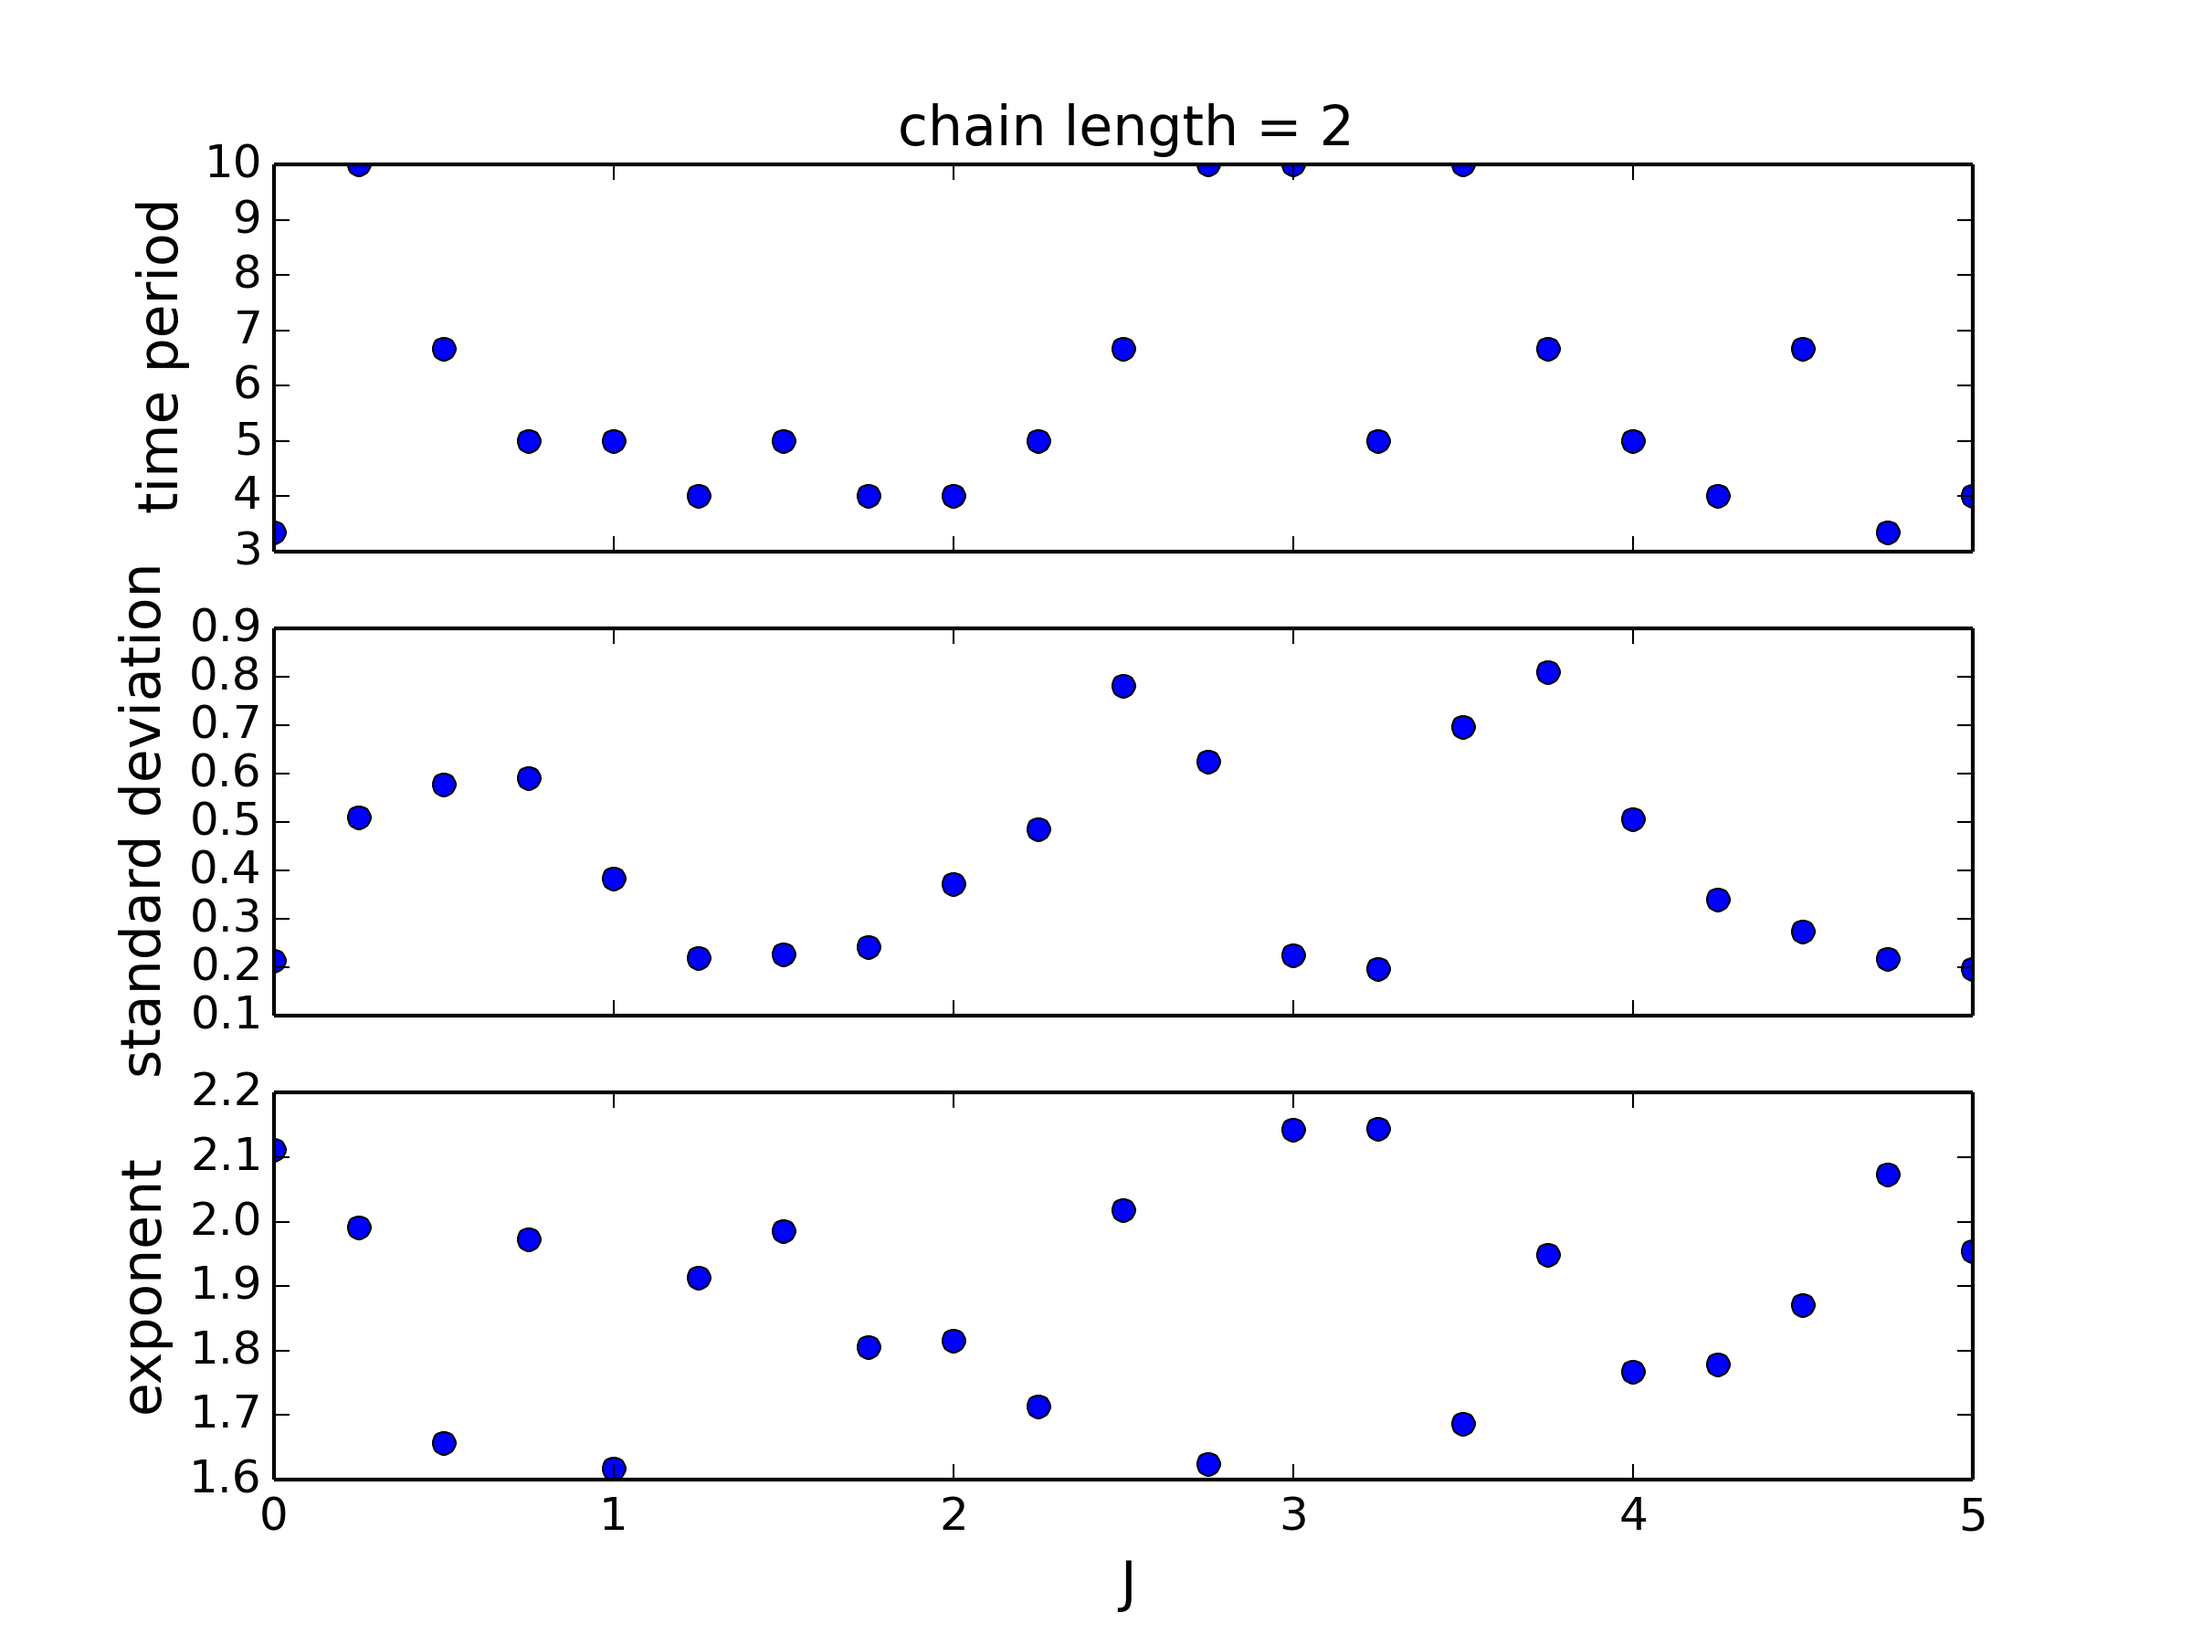
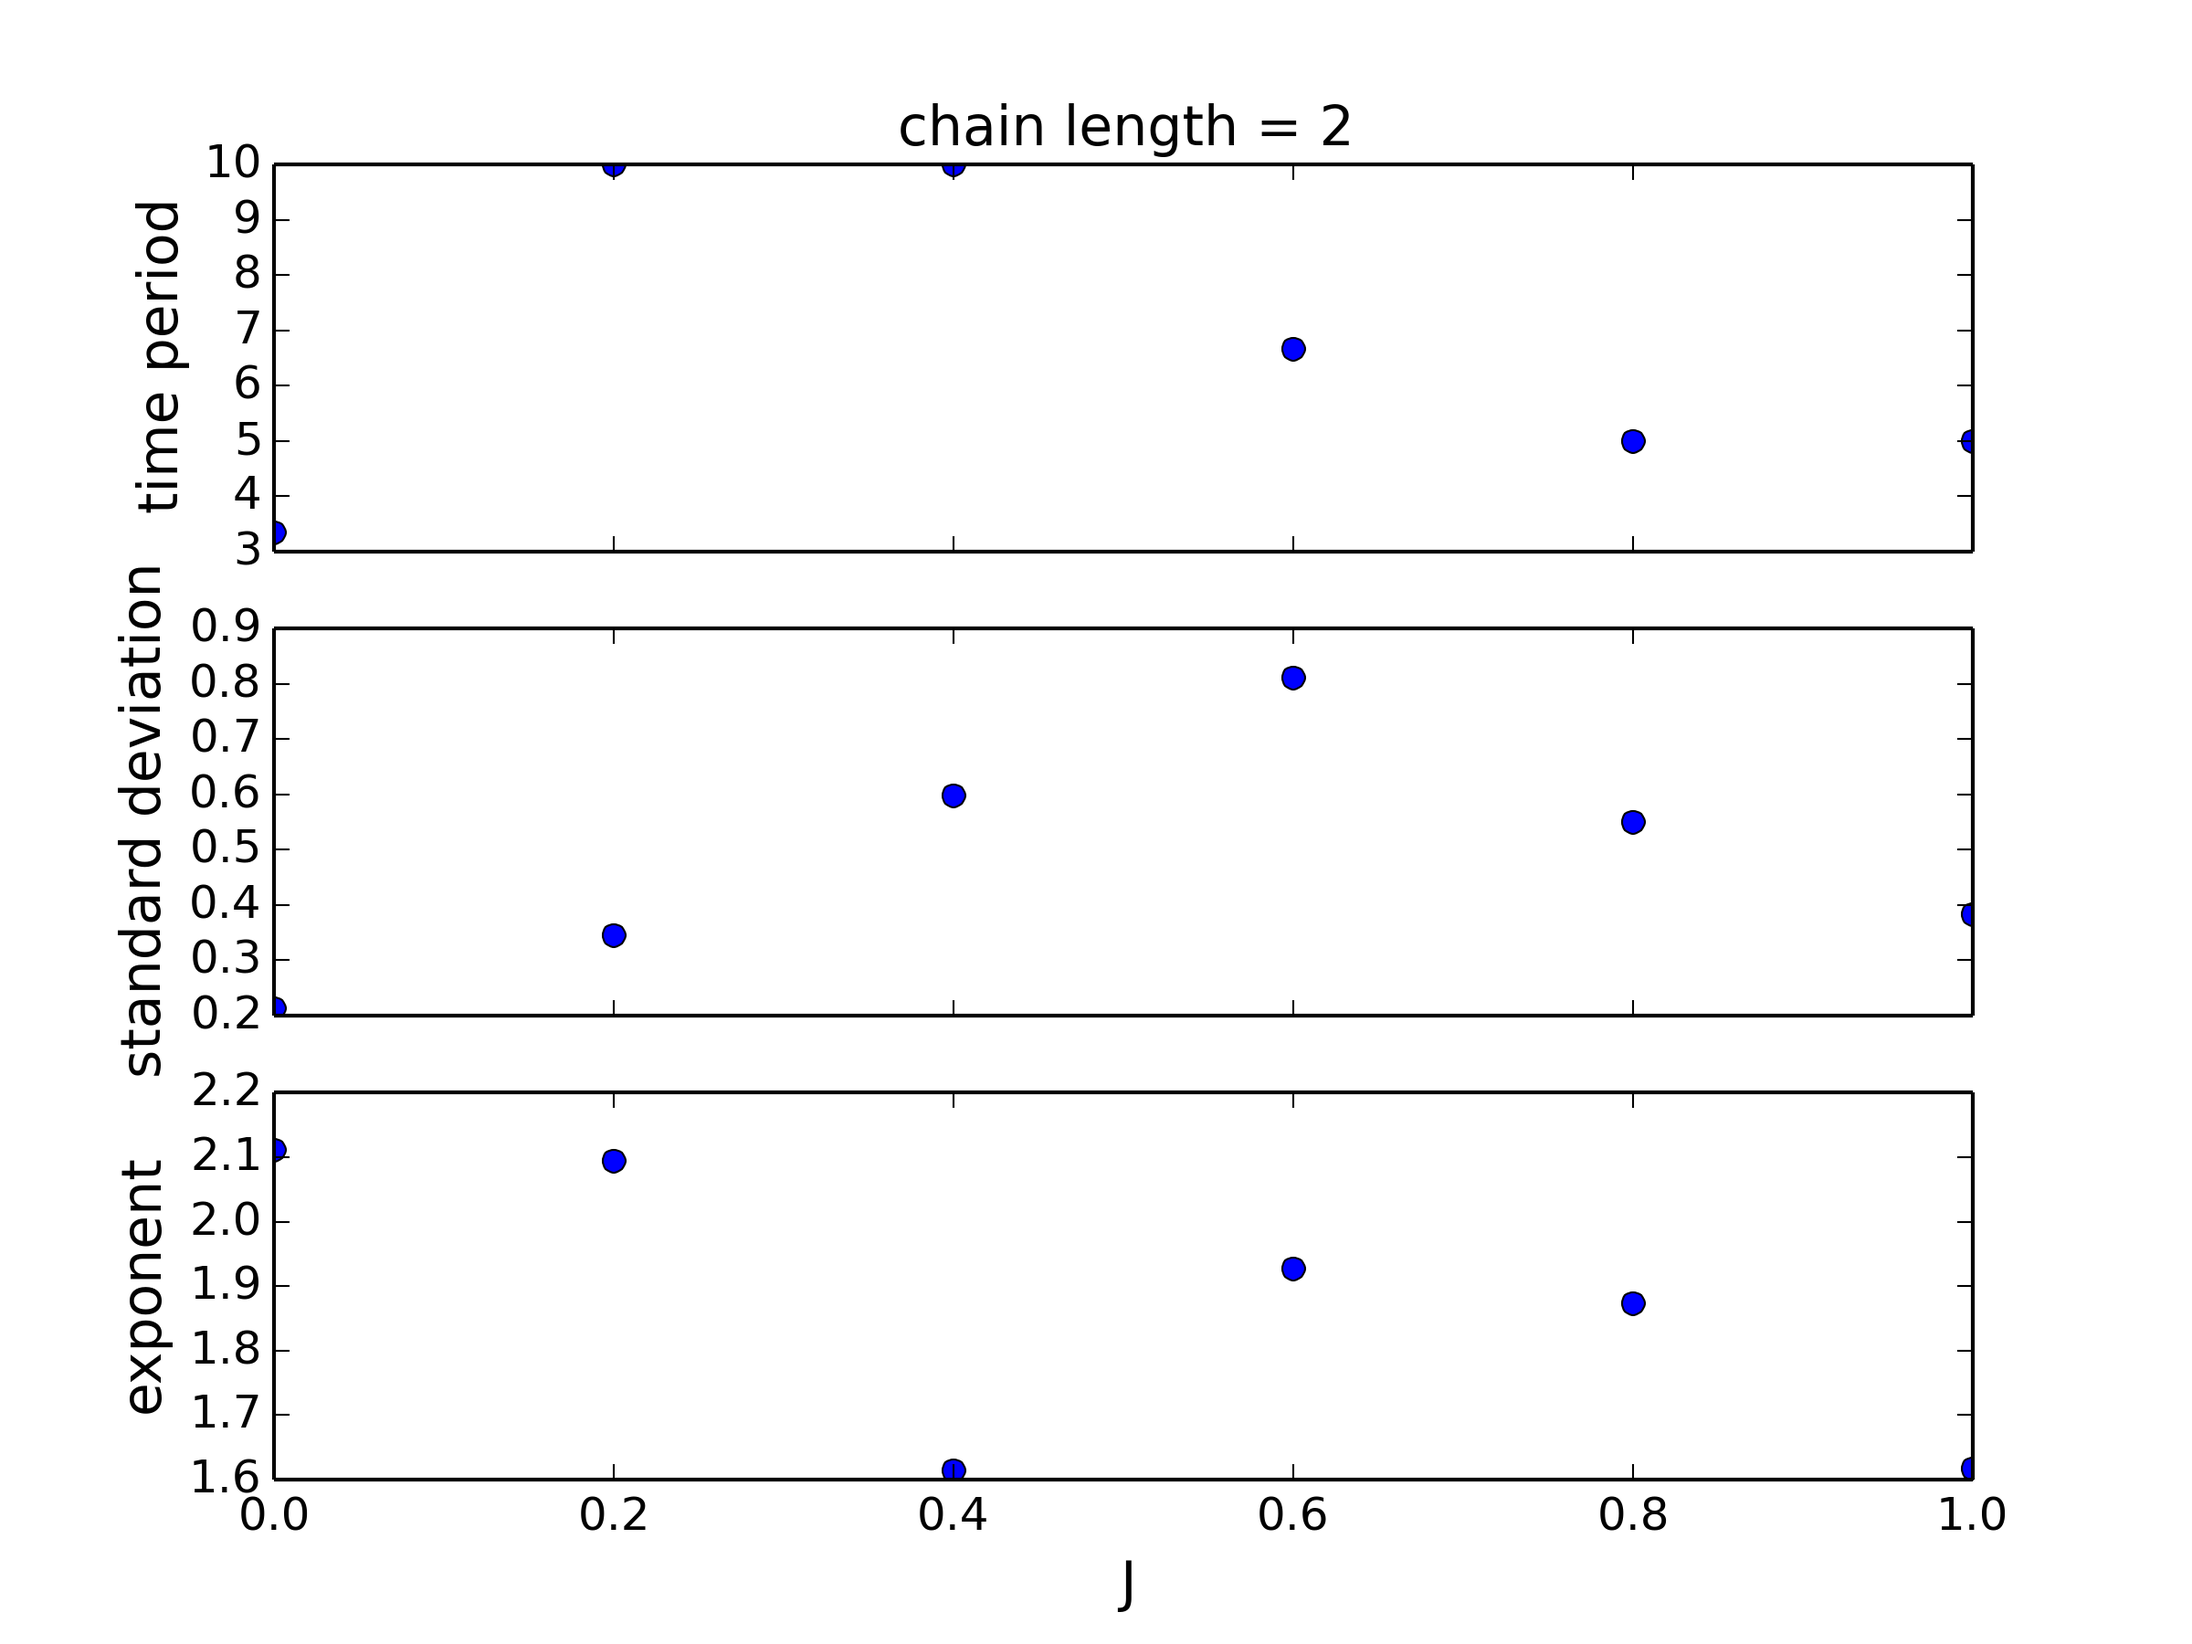
more figures

diff --git a/SpinchainVarianceWithTime.py b/SpinchainVarianceWithTime.py
@@ -10,12 +10,10 @@ from scipy.optimize import leastsq
 print('running SpinChainVarianceWithTime.py')
 plt.close('all')
 #INITIAL VARIABLES
-STEPS = 50
+STEPS = 30
 POSITIONS = 2*STEPS+1
-CHAINLENGTH = 4 
-#J = 0.8
-#J1 = 0.8
-num_Js = 20
+CHAINLENGTH = 2
+num_Js = 5
 I_P = np.identity((POSITIONS))
 I_C = np.identity((2))
 ##################################
@@ -127,7 +125,7 @@ exponents = []
 Js = []
 J1s = []
 for m in range(num_Js+1):
-    J = 5*m/num_Js
+    J = m/num_Js
     J1 = J
     Js.append(J)
     J1s.append(J1)
@@ -216,12 +214,6 @@ for m in range(num_Js+1):
     zero_crossings = np.where(np.diff(np.sign(oscillation)))[0]
     osc_time.append(2*STEPS/zero_crossings.shape[0])
     osc_std.append(np.std(oscillation))
-#    print('T = ' + str(osc_time))
-#    print('std = ' + str(osc_std))
-#    print('n = ' + str(n))
-#    print('J = ' + str(J))
-#    print('J1 = ' + str(J1))
-#    print('chainlength = ' + str(CHAINLENGTH))
     
     ###################################
     #def animate(r): 
@@ -232,14 +224,14 @@ for m in range(num_Js+1):
     #plt.show()
     ######################Plot figures########################
     colour = cm(1.*m/num_Js)
-    ax.plot(x,results,color=colour,label='J = ' + str(round(J,2)) + ', chain length = ' + str(CHAINLENGTH))
+    ax.plot(x,results,color=colour,label='J = ' + str(round(J,2)))
     ax.plot(x,var_fit,'--',color=colour)
-#ax.legend(loc=2)
+ax.legend(loc=2)
 plt.xlabel('number of steps',fontsize='large')
 plt.ylabel('variance of walk',fontsize='large')
 plt.title('chain length = '+ str(CHAINLENGTH))
 plt.show
-plt.savefig('./figures/spin_chain_with_time/'+str(STEPS)+'step_'+str(CHAINLENGTH)+'chain_variances.png', dpi=300)
+plt.savefig('./figures/spin_chain_with_time/'+str(STEPS)+'step_'+str(CHAINLENGTH)+'chain_variances_fewer.png', dpi=300)
 
 f, axarr = plt.subplots(3, sharex=True)
 axarr[0].plot(Js,osc_time,'o')
@@ -253,4 +245,4 @@ axarr[1].set_ylabel('standard deviation',fontsize='large')
 axarr[2].plot(Js,exponents,'o')
 axarr[2].set_ylabel('exponent',fontsize='large')
 plt.show
-plt.savefig('./figures/spin_chain_with_time/'+str(STEPS)+'step_'+str(CHAINLENGTH)+'chain_qualities.png', dpi=300)
+#plt.savefig('./figures/spin_chain_with_time/'+str(STEPS)+'step_'+str(CHAINLENGTH)+'chain_qualities.png', dpi=300)

diff --git a/variancemeasure.py b/variancemeasure.py
@@ -18,7 +18,7 @@ decoherences_list = []
 
 #INPUT PARAMETERS
 decoherences = 18
-steps = 50
+steps = 100
 repeats = 100
 repeats1 = 5
 
@@ -29,10 +29,10 @@ for j in range(decoherences+1):
     result.append(quantumwalk(steps,'c', decoherence, 'v'))
     result1.append(quantumwalk(steps,'p', decoherence, 'v'))
     result2.append(quantumwalk(steps,'cp', decoherence, 'v'))
-#    result3temp = []
-#    for i in range(repeats):
-#        result3temp.append(quantumwalk(steps,'H', decoherence, 'v'))
-#    result3.append(np.average(result3temp))
+    result3temp = []
+    for i in range(repeats):
+        result3temp.append(quantumwalk(steps,'H', decoherence, 'v'))
+    result3.append(np.average(result3temp))
     result4temp = []
     for i in range(repeats1):
         result4temp.append(quantumwalk(steps,'m', decoherence, 'v'))
@@ -46,8 +46,7 @@ plt.plot(decoherences_list,result1,label='position decoherence')
 plt.plot(decoherences_list,result2,label='coin and position decoherence')
 plt.plot(decoherences_list,result4,label='random decoherence type',ls='None',marker="o")
 plt.plot(decoherences_list,result3,label='imperfect hadamard',ls='None',marker="o")
-plt.plot(decoherences_list,result5,label='analytical approximation')
-#plt.plot(decoherences_list,result2,label=str(steps)+' steps')
+#plt.plot(decoherences_list,result5,label='analytical approximation')
 
 
 plt.xlabel('probability of measurement event',fontsize='large')

diff --git a/NewTraceDistance2303/SpinChainWalk/UnreducedTraceDistance.py b/NewTraceDistance2303/SpinChainWalk/UnreducedTraceDistance.py
@@ -10,7 +10,7 @@ import time
 #INITIAL VARIABLES
 STEPS = 100
 POSITIONS = 2*STEPS+1
-CHAINLENGTH = 4
+CHAINLENGTH = 2
 results=[]
 times = []
 J = 0.1
@@ -195,8 +195,8 @@ y = range(STEPS)
 
 plt.figure(num=1, figsize=(10, 8))
 #plt.title('Plot 1', size=14)
-plt.xlabel('Position', **font)
-plt.ylabel('Probability of Measurement', **font)
+plt.xlabel('steps', **font)
+plt.ylabel('Trace Distance', **font)
 #for i in range(decoherences+1):
 #    plt.plot(y, x[i], color=next(colors), linestyle=next(linecycle), label=np.around(decoherences_list[i],2))
 #    plt.plot(y, x[i], color=next(colors), linestyle="-", label=np.around(decoherences_list[i],2))

diff --git a/NewTraceDistance2303/SpinTraceDistance/SpinTraceDistance.py b/NewTraceDistance2303/SpinTraceDistance/SpinTraceDistance.py
@@ -9,10 +9,10 @@ from scipy import linalg
 ##################################
 #INITIAL VARIABLES
 STEPS = 100
-CHAINLENGTH = 2
+CHAINLENGTH = 3
 results=[]
 J = 0.1
-J1 = 0.1
+J1 = 0.05
 I_C = np.identity((2))
 chaintype = 1
 ##################################
